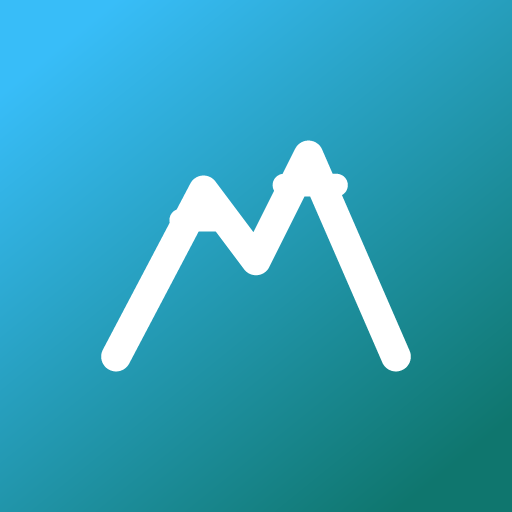
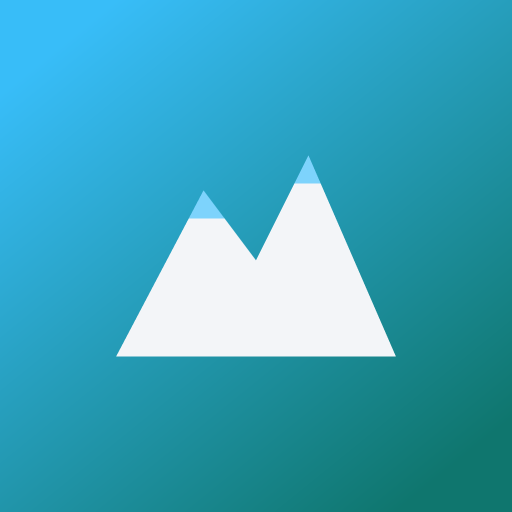
Zapri greben in ga napolni z belo, sneg poravnaj znotraj vrhov
Greben je bil odprta obrisna črta brez spodnjega roba, snežni črtici
pa sta štrleli čez pobočje. Pot je zdaj zaprta (dodan spodnji rob) in
polno pobarvana bela, snežni kapi pa sta pomanjšana trikotnika po
istih robovih kot vsak vrh, zato ostaneta znotraj obrisa.

Changed region(s): [[0.1875, 0.25, 0.8125, 0.75]]

diff --git a/tools/make-icons.js b/tools/make-icons.js
@@ -8,9 +8,10 @@ var SS = 4;                        // nadvzorčenje za mehke robove
 
 var GRAD_START = [0x38, 0xbd, 0xf8];   // sky-blue
 var GRAD_END = [0x0f, 0x76, 0x6e];     // teal
-var LINE = [0xff, 0xff, 0xff];
+var PEAK = [0xf3, 0xf5, 0xf8];
+var SNOW = [0x7d, 0xd3, 0xfc];
 
-/* Risba (odprta linija grebena + dve snežni črtici) je v koordinatah 0..192;
+/* Risba (zaprt greben + dve snežni kapi) je v koordinatah 0..192;
    njen dejanski obseg je x 32..160, y 48..140 — sredina (96, 94). */
 var ART = { cx: 96, cy: 94 };
 
@@ -30,16 +31,6 @@ function insidePolygon(x, y, pts) {
     if ((yi > y) !== (yj > y) && x < (xj - xi) * (y - yi) / (yj - yi) + xi) hit = !hit;
   }
   return hit;
-}
-
-/* Odsek z zaobljenima koncema: razdalja do daljice <= polovica debeline. */
-function insideCapsule(x, y, x1, y1, x2, y2, halfW) {
-  var vx = x2 - x1, vy = y2 - y1;
-  var len2 = vx * vx + vy * vy;
-  var t = len2 ? ((x - x1) * vx + (y - y1) * vy) / len2 : 0;
-  t = Math.min(1, Math.max(0, t));
-  var dx = x - (x1 + t * vx), dy = y - (y1 + t * vy);
-  return dx * dx + dy * dy <= halfW * halfW;
 }
 
 /* Diagonalen preliv (ujema SVG linearGradient 14.7%,6.4% -> 85.3%,93.6%). */
@@ -124,19 +115,23 @@ function drawIcon(size, maskable) {
     : function (x, y) { return insideRoundRect(x, y, n, n, 40 * unit); };
   bmp.fillFn(bgTest, function (x, y) { return gradColor(x, y, n); });
 
-  // greben (odprta linija, štiri daljice) — enak potek kot pot v icon.svg
-  var ridge = [[32, 140, 72, 64], [72, 64, 96, 96], [96, 96, 120, 48], [120, 48, 160, 140]];
-  var ridgeHalfW = 6.8 * S;
-  ridge.forEach(function (seg) {
-    bmp.fill(function (x, y) { return insideCapsule(x, y, X(seg[0]), Y(seg[1]), X(seg[2]), Y(seg[3]), ridgeHalfW); }, LINE);
-  });
+  // zaprt greben (isti potek kot pot v icon.svg, a zaprt na dnu) — polno bel
+  var ridge = [32, 140, 72, 64, 96, 96, 120, 48, 160, 140];
+  var polyRidge = [];
+  for (var i = 0; i < ridge.length; i += 2) polyRidge.push(X(ridge[i]), Y(ridge[i + 1]));
+  bmp.fill(function (x, y) { return insidePolygon(x, y, polyRidge); }, PEAK);
 
-  // dve kratki snežni črtici pod vsakim vrhom
-  var snowLines = [[61.6, 77.6, 82.4, 77.6], [108.8, 61.6, 132.8, 61.6]];
-  var snowHalfW = 5.2 * S;
-  snowLines.forEach(function (seg) {
-    bmp.fill(function (x, y) { return insideCapsule(x, y, X(seg[0]), Y(seg[1]), X(seg[2]), Y(seg[3]), snowHalfW); }, LINE);
-  });
+  // snežna kapa na vrhu 1 — pomanjšan trikotnik po robovih vrha, ne štrli čez rob
+  var snow1 = [65.26, 76.8, 72, 64, 81.6, 76.8];
+  var polySnow1 = [];
+  for (i = 0; i < snow1.length; i += 2) polySnow1.push(X(snow1[i]), Y(snow1[i + 1]));
+  bmp.fill(function (x, y) { return insidePolygon(x, y, polySnow1); }, SNOW);
+
+  // snežna kapa na vrhu 2
+  var snow2 = [113.6, 60.8, 120, 48, 125.57, 60.8];
+  var polySnow2 = [];
+  for (i = 0; i < snow2.length; i += 2) polySnow2.push(X(snow2[i]), Y(snow2[i + 1]));
+  bmp.fill(function (x, y) { return insidePolygon(x, y, polySnow2); }, SNOW);
 
   return downsample(bmp, size);
 }

diff --git a/sw.js b/sw.js
@@ -1,7 +1,7 @@
 /* Predpomnilnik lupine aplikacije, da deluje tudi brez povezave.
    Ploščice zemljevida (tuja domena) gredo mimo predpomnilnika naravnost v omrežje.
    Ob spremembi datotek povečaj VERSION. */
-var VERSION = 'kam-v7';
+var VERSION = 'kam-v8';
 var SHELL = [
   './', './index.html', './style.css', './icon.svg', './manifest.json',
   './js/app.js',
